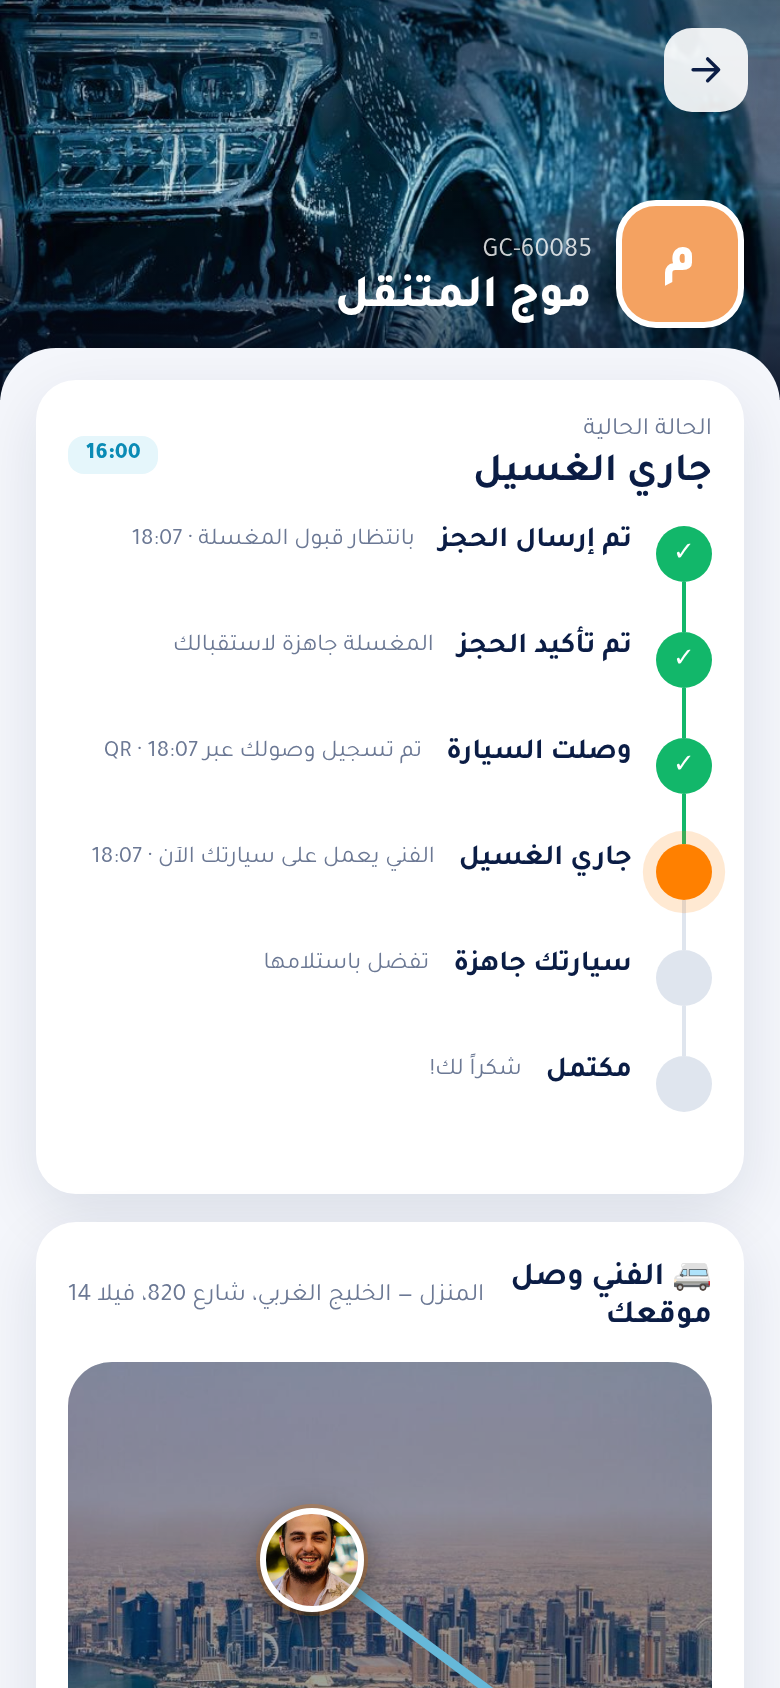
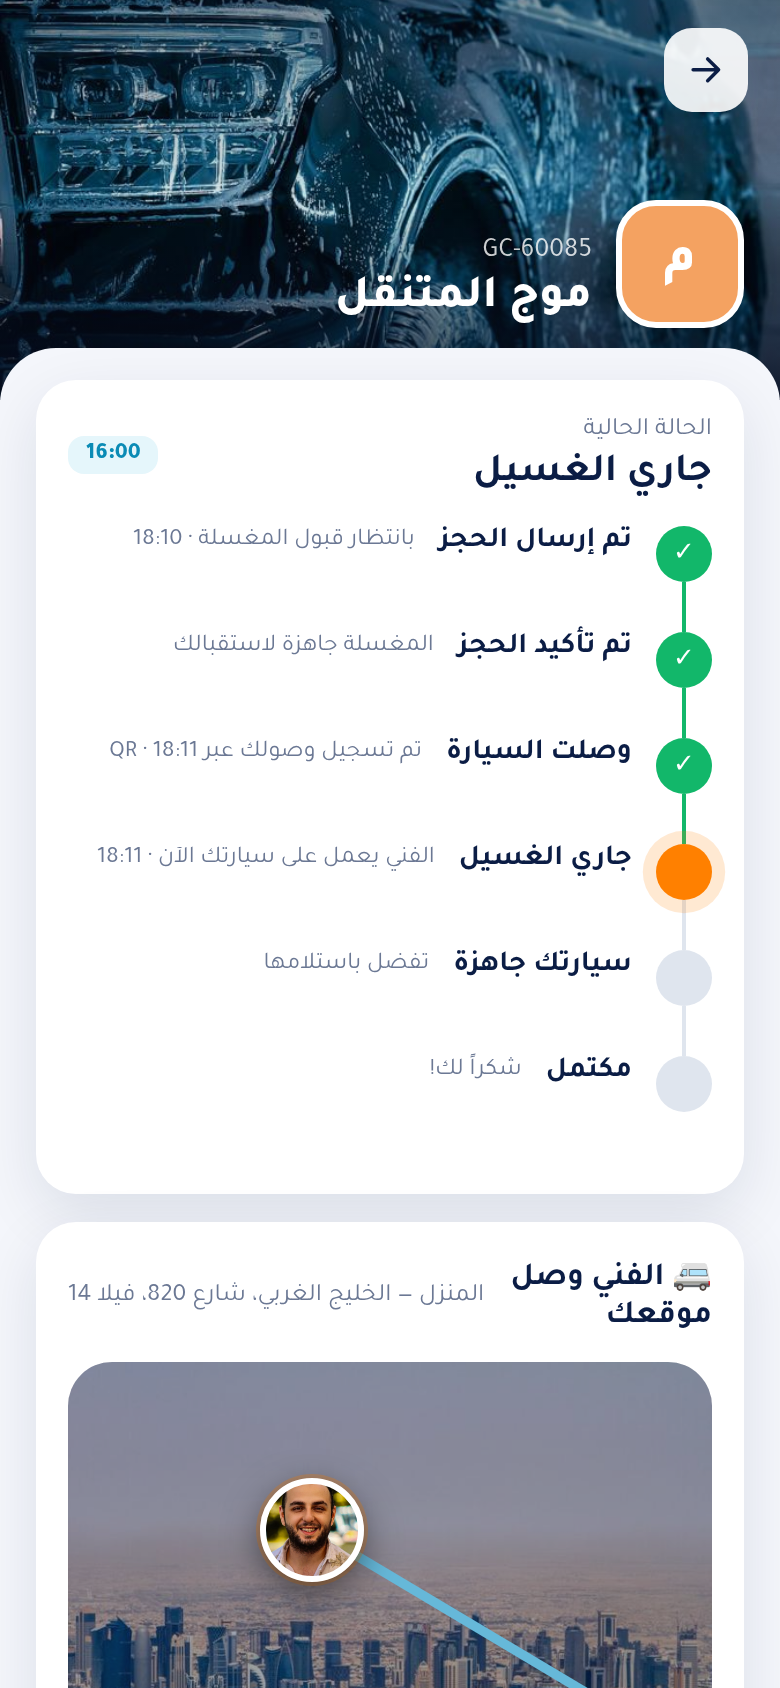
Mobile tracker: worker marker always visible above ETA card; mobile-wash products delivered with worker

diff --git a/js/market2.js b/js/market2.js
@@ -39,7 +39,7 @@ const _bk=R.book;R.book=()=>{let h=_bk();if(!UI.dr)return h;const s=MK.get(),d=U
   <input class="fld" style="margin-top:8px" placeholder="تفاصيل إضافية: رقم المبنى، الموقف، الطابق" value="${E(d.addrNote||'')}" onchange="UI.dr.addrNote=this.value"></div><div class="step"><h4><em>5</em>`);}
  h=h.replace(/onclick="UI\.dr\.slot='(\d\d:\d\d)';render\(\)">(\d\d:\d\d)<small>([^<]*)<\/small>/g,(m,a,b,c)=>{const o=MK.offPct(t.v,a);return o&&c!=='انتهى'&&c!=='ممتلئ'?m.replace('<small>'+c,'<small>-'+o+'% هادئ'):m;}).replace(/class="pill ([^"]*)"(\s+onclick="UI\.dr\.slot='(\d\d:\d\d)')/g,(m,c,r,sl)=>MK.offPct(t.v,sl)?`class="pill slotoff ${c}"${r}`:m);
  if(t.v.offpeak&&t.v.offpeak.on)h=h.replace('<div class="step"><h4><em>6</em>',`<p style="margin:-6px 18px 10px;font-size:12.5px;color:var(--ok);font-weight:700">💡 خصم ${t.v.offpeak.pct}% على المواعيد الهادئة ${t.v.offpeak.from}:00 - ${t.v.offpeak.to}:00</p><div class="step"><h4><em>6</em>`);
- h=h.replace('<div class="step"><h4><em>6</em>',`<div class="step"><h4><em>🛍</em>منتجات العناية <small style="color:var(--mut);font-weight:500;font-size:12px">· تستلمها من المغسلة</small></h4><div class="prs">${s.products.filter(p=>p.on).map(p=>`<button class="prd ${(d.prods||[]).includes(p.id)?'on':''}" onclick="togPr('${p.id}')"><div class="im" style="background-image:url(${p.img})"></div><b>${E(p.name)}</b><small>${(d.prods||[]).includes(p.id)?'✓ مضاف':'+'+M(p.price)}</small></button>`).join('')}</div></div><div class="step"><h4><em>6</em>`);
+ h=h.replace('<div class="step"><h4><em>6</em>',`<div class="step"><h4><em>🛍</em>منتجات العناية <small style="color:var(--mut);font-weight:500;font-size:12px">· ${d.mobile?'تصلك مع العامل':'تستلمها من المغسلة'}</small></h4><div class="prs">${s.products.filter(p=>p.on).map(p=>`<button class="prd ${(d.prods||[]).includes(p.id)?'on':''}" onclick="togPr('${p.id}')"><div class="im" style="background-image:url(${p.img})"></div><b>${E(p.name)}</b><small>${(d.prods||[]).includes(p.id)?'✓ مضاف':'+'+M(p.price)}</small></button>`).join('')}</div></div><div class="step"><h4><em>6</em>`);
  const L=s.loyalty;h=h.replace('<div class="sum">',`<div class="step"><h4><em>★</em>نقاط جو كلينز</h4><div class="chk ${d.usePts?'on':''}" onclick="${s.user.points>=L.min?'UI.dr.usePts=!UI.dr.usePts;render()':"toast('الحد الأدنى للاستبدال "+L.min+" نقطة')"}"><span class="bx">✓</span><div>استبدل نقاطي<br><small style="color:var(--mut);font-weight:500">رصيدك ${s.user.points.toLocaleString('en')} نقطة · كل ${L.rate} نقطة = 1 ر.ق · صالحة في كل المغاسل</small></div><span class="p">${t.pts?'-'+M(t.pts):''}</span></div></div>
  ${s.user.plus?'':`<a href="#/plus" class="card" style="margin:0 18px 14px;display:flex;gap:10px;align-items:center;background:linear-gradient(135deg,#0B1D45,#13306e);color:#fff"><span class="plusb">PLUS</span><span style="flex:1;font-size:13px">وفّر ${s.plus.pct}% على هذا الطلب (${M(Math.round((t.base+t.ad)*s.plus.pct/100))}) مع جو كلينز Plus</span>${ic('next')}</a>`}<div class="sum">`);
  h=h.replace('<div class="t"><span>الإجمالي</span>',`${t.plus?`<div style="color:var(--ok)"><span>خصم Plus ${s.plus.pct}%</span><b>-${M(t.plus)}</b></div>`:''}${t.off?`<div style="color:var(--ok)"><span>خصم الوقت الهادئ ${t.op}%</span><b>-${M(t.off)}</b></div>`:''}${t.pr?`<div><span>منتجات العناية (${t.prods.length})</span><b>${M(t.pr)}</b></div>`:''}${t.pts?`<div style="color:var(--ok)"><span>استبدال ${t.pts*L.rate} نقطة</span><b>-${M(t.pts)}</b></div>`:''}<div class="t"><span>الإجمالي</span>`).replace(/ستكسب \d+ نقطة ولاء/,`ستكسب ${t.earn} نقطة${s.user.plus?' (×2 لأعضاء Plus)':''}`);
@@ -61,7 +61,7 @@ window.confirmBook=()=>{const s0=MK.get();const t=drTotals(s0);const d=UI.dr;if(
 /* tracker */
 function mobMap(b,s){const v=MK.vendor(b.vendorId,s);const st=(b.timeline.find(x=>x.s==='confirmed')||{}).t;const el=st?(Date.now()-hm2d(st))/60000:0;const T=14;
  const arrived=['arrived','washing','ready','completed'].includes(b.status);const p=arrived?1:b.status==='confirmed'?Math.min(.92,Math.max(.05,el/T)):0;const eta=arrived?0:Math.max(1,Math.round(T-el));
- const hm=b.pin||{x:62,y:38};const w={x:12,y:84};const cx=w.x+(hm.x-w.x)*p,cy=w.y+(hm.y-w.y)*p;const staff=(v.staff.find(x=>x.on&&/فني/.test(x.role))||v.staff[0]);
+ const hm0=b.pin||{x:62,y:38};const hm={x:hm0.x,y:8+hm0.y*.55};const w={x:12,y:62};const cx=w.x+(hm.x-w.x)*p,cy=w.y+(hm.y-w.y)*p;const staff=(v.staff.find(x=>x.on&&/فني/.test(x.role))||v.staff[0]);
  return `<div class="card" style="margin:14px 18px 0"><div class="row"><b class="tx">🚐 ${arrived?'الفني وصل موقعك':b.status==='pending'?'بانتظار قبول المغسلة':'الفني في الطريق إليك'}</b><small class="mut">${E(b.addr||'')}</small></div>
  <div class="mmap"><svg viewBox="0 0 100 100" preserveAspectRatio="none"><line x1="${100-w.x}" y1="${w.y}" x2="${100-hm.x}" y2="${hm.y}" stroke="#FF8000" stroke-width="1.2" stroke-dasharray="3 2"/><line x1="${100-w.x}" y1="${w.y}" x2="${100-cx}" y2="${cy}" stroke="#66B8D9" stroke-width="1.6"/></svg>
  <div class="hm" style="right:${hm.x}%;top:${hm.y}%">${ic('home')}</div>${b.status!=='pending'?`<div class="wk" style="right:${cx}%;top:${cy}%;background-image:url(${staff.av})"></div>`:''}
@@ -69,7 +69,7 @@ function mobMap(b,s){const v=MK.vendor(b.vendorId,s);const st=(b.timeline.find(x
 const _rb=R.b;R.b=id=>{let h=_rb(id);const s=MK.get();const b=s.bookings.find(x=>x.id===id);if(!b)return h;const cut='<div class="card" style="margin:14px 18px;display:flex;gap:14px';let x='';
  if(b.mobile&&!['completed','cancelled','rejected'].includes(b.status))x+=mobMap(b,s);
  if(b.photos&&(b.photos.before.length||b.photos.after.length))x+=`<div class="card" style="margin:14px 18px 0"><b>📸 صور قبل وبعد</b><small class="mut" style="display:block">رفعها فريق ${E(MK.vendor(b.vendorId,s).name)}</small><div class="ba"><div style="background-image:url(${b.photos.before[0]||'img/car-lc-desert.jpg'})"><span>قبل</span></div><div style="background-image:url(${b.photos.after[0]||b.photos.before[0]})"><span>${b.photos.after.length?'بعد':'جارٍ...'}</span></div></div></div>`;
- if(b.products&&b.products.length)x+=`<div class="card" style="margin:14px 18px 0"><b>🛍 منتجات تستلمها من المغسلة</b>${b.products.map(p=>`<div class="row" style="padding:6px 0;font-size:13.5px"><span class="tx">${E(p.name)}</span><b>${M(p.price)}</b></div>`).join('')}</div>`;
+ if(b.products&&b.products.length)x+=`<div class="card" style="margin:14px 18px 0"><b>🛍 ${b.mobile?'منتجات تصلك مع العامل':'منتجات تستلمها من المغسلة'}</b>${b.products.map(p=>`<div class="row" style="padding:6px 0;font-size:13.5px"><span class="tx">${E(p.name)}</span><b>${M(p.price)}</b></div>`).join('')}</div>`;
  const c=s.claims.find(c=>c.booking===b.code);
  if(b.status==='completed')x+=c?`<div class="card" style="margin:14px 18px 0;border:2px solid ${c.status==='open'?'var(--or)':'var(--ok)'}"><b>🛡 مطالبة ضمان الرضا ${c.id}</b><p class="mut" style="font-size:13px;margin:4px 0">${E(c.reason)} · طلبت: ${c.want==='refund'?'استرجاع المبلغ':'إعادة غسيل مجانية'}</p><span class="tg ${c.status==='open'?'pending':'completed'}">${c.status==='open'?'قيد المراجعة من جو كلينز':c.res==='refund'?'تم استرجاع '+M(c.amount)+' للمحفظة':'تمت الموافقة على إعادة غسيل مجانية'}</span></div>`
   :`<div style="display:flex;gap:10px;margin:14px 18px 0"><button class="btn sm" onclick="repeatB('${b.id}')">↻ كرّر الطلب</button><button class="btn gh sm" onclick="claimSheet('${b.id}')">🛡 ضمان الرضا</button></div>`;

diff --git a/css/mk2.css b/css/mk2.css
@@ -3,9 +3,9 @@
 .rmd{margin:16px 18px 0;border-radius:22px;overflow:hidden;position:relative;color:#fff;padding:16px;background:linear-gradient(270deg,rgba(5,13,31,.92),rgba(5,13,31,.35)),var(--im) center/cover;box-shadow:var(--sh)}.rmd b{font-size:16px;display:block}.rmd p{font-size:12.5px;opacity:.85;margin:4px 0 10px;max-width:250px}.rmd .wx{display:inline-flex;gap:6px;align-items:center;background:rgba(255,255,255,.16);border-radius:99px;padding:3px 10px;font-size:11.5px;margin-bottom:8px}
 .rmd button{background:var(--or);color:#fff;border-radius:12px;padding:8px 14px;font-weight:800;font-size:13px;font-family:inherit;border:0}
 .plusb{display:inline-flex;align-items:center;gap:5px;background:linear-gradient(135deg,#FF8000,#ffb055);color:#fff;font-weight:900;font-size:12px;border-radius:99px;padding:3px 12px;margin-top:4px}
-.mmap{position:relative;height:260px;border-radius:22px;overflow:hidden;background:url(../img/doha-aerial.jpg) center/cover;margin-top:12px}.mmap::before{content:"";position:absolute;inset:0;background:rgba(11,29,69,.4)}
+.mmap{position:relative;height:290px;border-radius:22px;overflow:hidden;background:url(../img/doha-aerial.jpg) center/cover;margin-top:12px}.mmap::before{content:"";position:absolute;inset:0;background:rgba(11,29,69,.4)}
 .mmap svg{position:absolute;inset:0;width:100%;height:100%}.mmap .hm,.mmap .wk{position:absolute;transform:translate(50%,-50%);z-index:2}.mmap .hm{width:40px;height:40px;border-radius:50%;background:var(--or);display:grid;place-items:center;color:#fff;border:3px solid #fff;box-shadow:0 0 0 8px rgba(255,128,0,.3)}
-.mmap .wk{width:52px;height:52px;border-radius:50%;border:3px solid #fff;background-size:cover;background-position:center;box-shadow:0 6px 18px rgba(0,0,0,.5);transition:all 1s}.mmap .eta{position:absolute;bottom:12px;right:12px;left:12px;z-index:3;background:#fff;border-radius:16px;padding:10px 14px;display:flex;gap:10px;align-items:center;font-size:13px}.mmap .eta b{font-size:22px;color:var(--or)}
+.mmap .wk{width:52px;height:52px;border-radius:50%;border:3px solid #fff;background-size:cover;background-position:center;box-shadow:0 6px 18px rgba(0,0,0,.5);transition:all 1s;z-index:4}.mmap .eta{position:absolute;bottom:12px;right:12px;left:12px;z-index:3;background:#fff;border-radius:16px;padding:10px 14px;display:flex;gap:10px;align-items:center;font-size:13px}.mmap .eta b{font-size:22px;color:var(--or)}
 .mmap.pick{cursor:crosshair}.mmap .hm.pk{animation:bob 1.2s infinite}@keyframes bob{50%{transform:translate(50%,-62%)}}
 .prs{display:flex;gap:10px;overflow-x:auto;padding-bottom:4px}.prd{flex:none;width:128px;background:#fff;border-radius:16px;border:2px solid transparent;padding:8px;box-shadow:var(--sh);text-align:right;font-family:inherit}.prd.on{border-color:var(--or)}.prd .im{height:80px;border-radius:12px;background-size:cover;background-position:center}.prd b{display:block;font-size:12.5px;margin-top:6px}.prd small{color:var(--or);font-weight:800}
 .ba{display:grid;grid-template-columns:1fr 1fr;gap:8px;margin-top:10px}.ba div{height:130px;border-radius:14px;background-size:cover;background-position:center;position:relative}.ba span{position:absolute;top:8px;right:8px;background:rgba(5,13,31,.75);color:#fff;font-size:11px;font-weight:800;padding:3px 9px;border-radius:99px}.ba div:last-child span{background:var(--ok)}

diff --git a/js/worker.js b/js/worker.js
@@ -32,7 +32,7 @@ R.b=id=>{const s=MK.get(),b=s.bookings.find(x=>x.id===id);if(!b)return R.home();
  <div class="card" style="margin:14px 18px"><div class="row"><img src="${b.cav}" style="width:46px;height:46px;border-radius:50%;object-fit:cover" alt=""><div style="flex:1"><b>${E(b.customer)}</b><br><small class="mut">${E(b.car)} · ${E(b.plate||'')}</small></div><a class="ib" href="tel:${E(b.phone)}">${ic('phone')}</a></div>
  <div class="stp">${MK.flow.map((f,i)=>`<i class="${i<=fi?'on':''}"></i>`).join('')}</div><div class="row" style="justify-content:space-between"><b style="color:var(--or)">${MK.statusName[b.status]}</b><small class="mut">${E(b.date)} · ${E(b.slot)}</small></div>
  <p style="margin-top:10px"><b>${E(b.serviceName)}</b>${b.addons&&b.addons.length?' + '+b.addons.map(a=>E(a.name||a)).join('، '):''}</p>
- ${b.mobile?`<p style="margin-top:6px">🚐 <b>غسيل متنقل:</b> ${E(b.addr)}</p>`:''}${b.products&&b.products.length?`<p style="margin-top:6px">🛍 <b>سلّم للعميل:</b> ${b.products.map(p=>E(p.name)).join('، ')}</p>`:''}</div>
+ ${b.mobile?`<p style="margin-top:6px">🚐 <b>غسيل متنقل:</b> ${E(b.addr)}</p>`:''}${b.products&&b.products.length?`<p style="margin-top:6px">🛍 <b>${b.mobile?'خذها معك وسلّمها للعميل (تصله مع العامل):':'سلّم للعميل في الفرع:'}</b> ${b.products.map(p=>E(p.name)).join('، ')}</p>`:''}</div>
  <div class="card" style="margin:0 18px 14px"><b>📸 صور قبل وبعد</b><p class="mut" style="font-size:12px;margin:4px 0 10px">تظهر فوراً للعميل في التطبيق</p><div class="phs">${slot('before','قبل')}${slot('after','بعد')}</div></div>
  ${n?`<div class="pad"><button class="btn" onclick="adv('${id}','${n}')">${ic('checkc')} ${ACT[n]}</button></div>`:'<p class="pad" style="text-align:center;color:var(--ok);font-weight:800">✓ تم إنهاء الطلب</p>'}</div>`;};
 window.adv=(id,st)=>{const me=MK.vendor(W.v).staff[W.s].n;MK.update(s=>{const b=s.bookings.find(x=>x.id===id);b.status=st;b.worker=me;b.timeline.push({s:st,t:new Date().toTimeString().slice(0,5)});

diff --git a/js/vendor2.js b/js/vendor2.js
@@ -8,7 +8,7 @@ const _oo=window.openO;window.openO=id=>{_oo(id);const s=MK.get(),b=s.bookings.f
   <label class="btn sm gh" style="margin-top:6px;cursor:pointer">${ic('camera')} رفع صورة<input type="file" accept="image/*" hidden onchange="upPh(this,'${id}','${k}')"></label></div>`;
  const ex=`<div class="card mt" style="padding:14px;box-shadow:none;border:1px solid var(--line)">${tagsOf(b)?`<div style="margin-bottom:8px">${tagsOf(b)}</div>`:''}
  ${b.mobile?`<div class="row" style="font-size:13.5px;margin-bottom:6px">🚐 <b class="tx">غسيل متنقل: ${E(b.addr)}</b></div>`:''}
- ${b.products&&b.products.length?`<div style="font-size:13.5px;margin-bottom:8px"><b>🛍 منتجات يستلمها العميل من الفرع:</b> ${b.products.map(p=>E(p.name)+' ('+M(p.price)+')').join('، ')}</div>`:''}
+ ${b.products&&b.products.length?`<div style="font-size:13.5px;margin-bottom:8px"><b>🛍 ${b.mobile?'منتجات تصل للعميل مع العامل (حمّلها في السيارة):':'منتجات يستلمها العميل من الفرع:'}</b> ${b.products.map(p=>E(p.name)+' ('+M(p.price)+')').join('، ')}</div>`:''}
  <b>📸 صور قبل وبعد (تظهر للعميل في التطبيق)</b><div class="g2e" style="margin-top:8px">${slot('before','قبل')}${slot('after','بعد')}</div></div>`;
  m.querySelector('.row.mt:last-child').insertAdjacentHTML('beforebegin',ex);};
 window.attachPh=(id,k,src)=>{MK.update(s=>{const b=s.bookings.find(x=>x.id===id);b.photos=b.photos||{before:[],after:[]};b.photos[k]=[src];if(b.mine)s.notifs.unshift({t:'📸 صور '+(k==='before'?'قبل':'بعد')+' الغسيل',b:MK.vendor(b.vendorId,s).name+' أرفقت صوراً لسيارتك',d:'الآن',img:src});});toast('تم إرفاق الصورة ✓ ستظهر للعميل');openO(id);};
